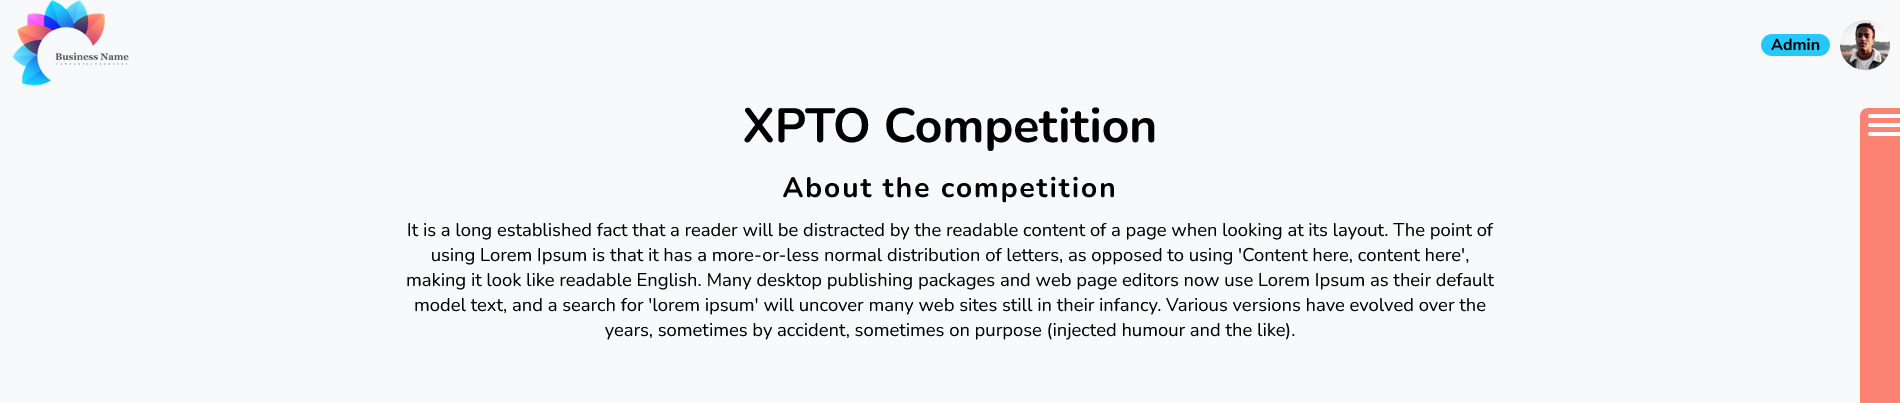
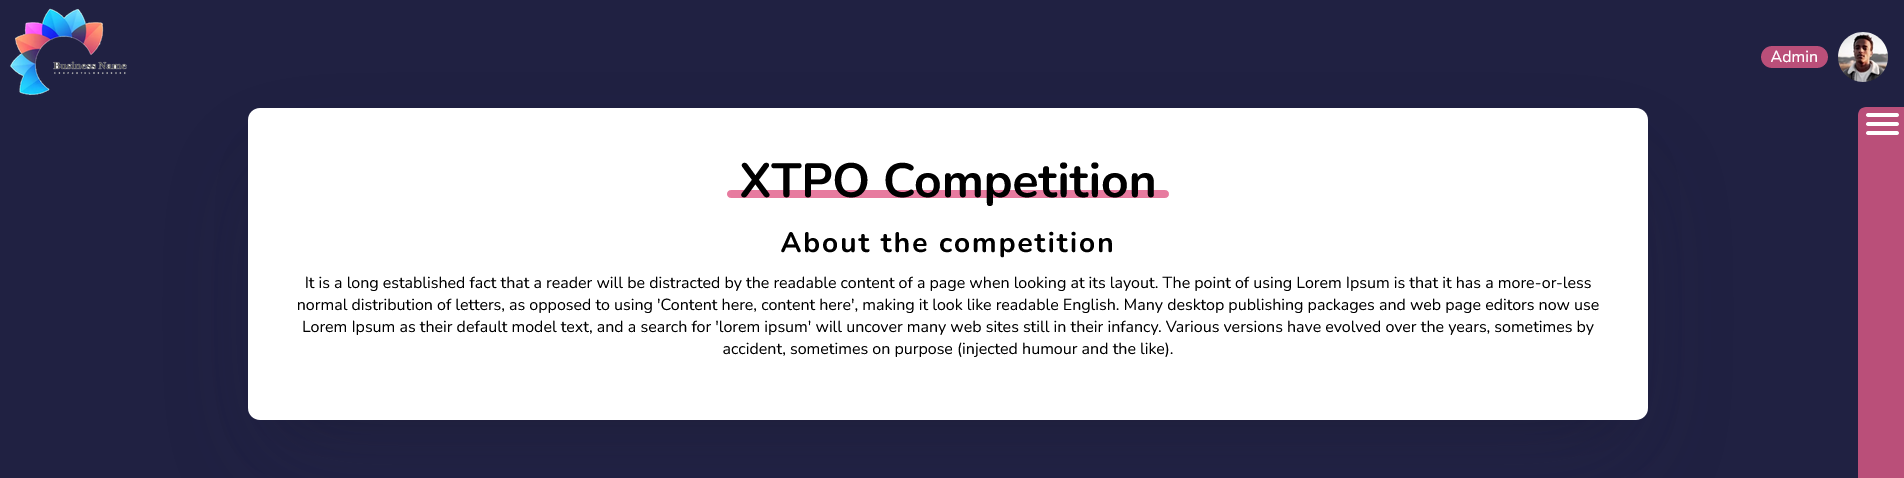
styles: changed color scheme for page

diff --git a/index.html b/index.html
@@ -38,24 +38,17 @@
 
     <main>
       <h1>XTPO Competition</h1>
-      <h2 class="content__title"></h2>
+      <h2 class="content__title">About the competition</h2>
       <p class="content__description">
-        Contrary to popular belief, Lorem Ipsum is not simply random text. It
-        has roots in a piece of classical Latin literature from 45 BC, making it
-        over 2000 years old. Richard McClintock, a Latin professor at
-        Hampden-Sydney College in Virginia, looked up one of the more obscure
-        Latin words, consectetur, from a Lorem Ipsum passage, and going through
-        the cites of the word in classical literature, discovered the
-        undoubtable source. Lorem Ipsum comes from sections 1.10.32 and 1.10.33
-        of "de Finibus Bonorum et Malorum" (The Extremes of Good and Evil) by
-        Cicero, written in 45 BC. This book is a treatise on the theory of
-        ethics, very popular during the Renaissance. The first line of Lorem
-        Ipsum, "Lorem ipsum dolor sit amet..", comes from a line in section
-        1.10.32.<br />
-        <strong
-          >To find out more, navigate using the sidebar on the right
-          side.</strong
-        >
+        It is a long established fact that a reader will be distracted by the
+        readable content of a page when looking at its layout. The point of
+        using Lorem Ipsum is that it has a more-or-less normal distribution of
+        letters, as opposed to using 'Content here, content here', making it
+        look like readable English. Many desktop publishing packages and web
+        page editors now use Lorem Ipsum as their default model text, and a
+        search for 'lorem ipsum' will uncover many web sites still in their
+        infancy. Various versions have evolved over the years, sometimes by
+        accident, sometimes on purpose (injected humour and the like).
       </p>
       <ul class="user__list"></ul>
       <ul class="user__details"></ul>

diff --git a/src/css/main-content.css b/src/css/main-content.css
@@ -1,9 +1,35 @@
 main {
+  background-color: var(--txt-primary);
   text-align: center;
+
+  border-radius: 12px;
+
+  max-width: 1400px;
+  margin: 0 auto;
+  padding: 40px;
+
+  box-shadow: rgba(255, 255, 255, 0.1) 0px 1px 1px 0px inset,
+    rgba(50, 50, 93, 0.25) 0px 50px 100px -20px,
+    rgba(0, 0, 0, 0.3) 0px 30px 60px -30px;
 }
 
 h1 {
   font-size: 3rem;
+  position: relative;
+  display: inline-block;
+  z-index: 2;
+}
+
+h1::before {
+  content: "";
+  background: var(--clr-secondary);
+  position: absolute;
+  left: -3%;
+  bottom: 16px;
+  height: 8px;
+  width: 106%;
+  z-index: -1;
+  border-radius: 35px;
 }
 
 .content__title {
@@ -13,13 +39,6 @@ h1 {
   margin: 10px 0;
 }
 
-.content__description {
-  max-width: 100ch;
-  margin: 0 auto;
-
-  font-size: 1.15rem;
-}
-
 .user__list,
 .user__details {
   display: flex;
@@ -27,10 +46,13 @@ h1 {
   align-items: center;
   gap: 10px;
 }
+
 .user__list li {
   font-size: 1.25rem;
 
-  background-color: rgb(255, 212, 212);
+  background-color: var(--clr-tertiary);
+  box-shadow: rgba(0, 0, 0, 0.15) 1.95px 1.95px 2.6px;
+
   padding: 6px 20px;
   border-radius: 12px;
 
@@ -48,8 +70,10 @@ h1 {
 
 .user__details li {
   font-size: 1.25rem;
-  background-color: var(--clr-secondary);
+
+  background-color: var(--clr-primary);
   color: var(--txt-primary);
+
   padding: 6px 20px;
   border-radius: 12px;
 }

diff --git a/src/css/style.css b/src/css/style.css
@@ -3,9 +3,9 @@
 @import url("https://fonts.googleapis.com/css2?family=Nunito:wght@400;700&display=swap");
 
 :root {
-  /* brand colors from logo */
-  --clr-primary: #26c6ff;
-  --clr-secondary: #fc8373;
+  --clr-primary: #202142;
+  --clr-secondary: rgba(226, 91, 136, 0.8);
+  --clr-tertiary: #dee2e6;
 
   --txt-primary: #fff;
   --txt-secondary: #000;
@@ -38,10 +38,9 @@ html {
 
 body {
   font-family: "Nunito", sans-serif;
-  background-color: #f8f9fa;
+  background-color: var(--clr-primary);
 }
 
 .container {
-  /*global container class to add padding on X axis*/
-  padding: 0 20px;
+  padding: 10px 20px 0 20px;
 }

diff --git a/src/css/header.css b/src/css/header.css
@@ -3,6 +3,7 @@
 header {
   display: flex;
   justify-content: space-between;
+  align-items: center;
 }
 
 .logo {
@@ -24,7 +25,9 @@ header {
 }
 
 .profileInfo strong {
-  background-color: var(--clr-primary);
+  background-color: rgba(226, 91, 136, 0.8);
+  color: white;
   padding: 0 10px;
   border-radius: 12px;
+  font-weight: 400;
 }
